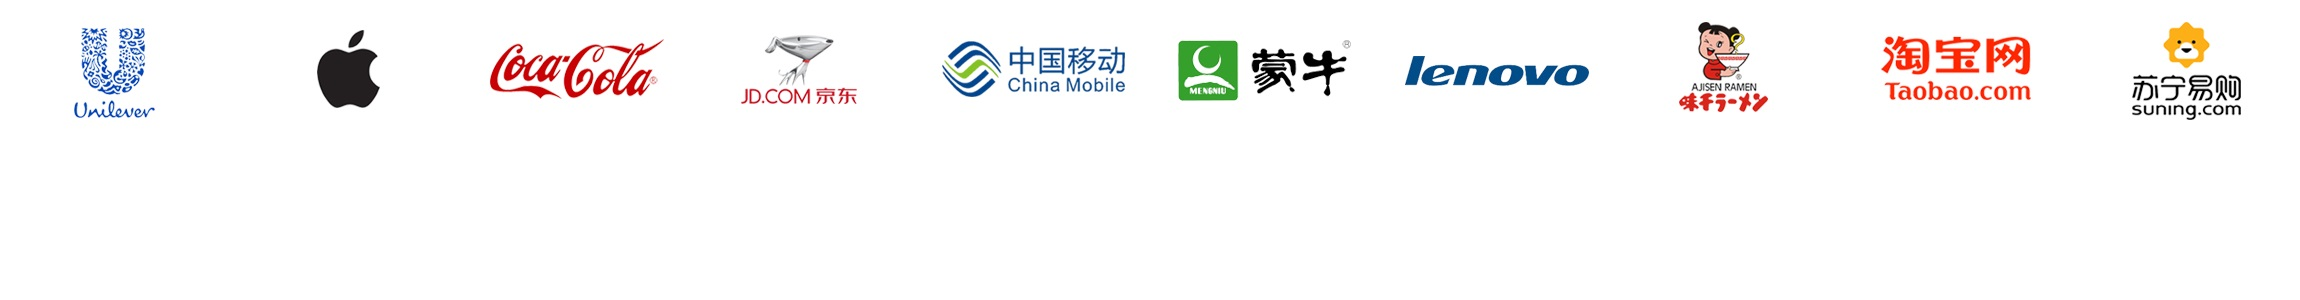
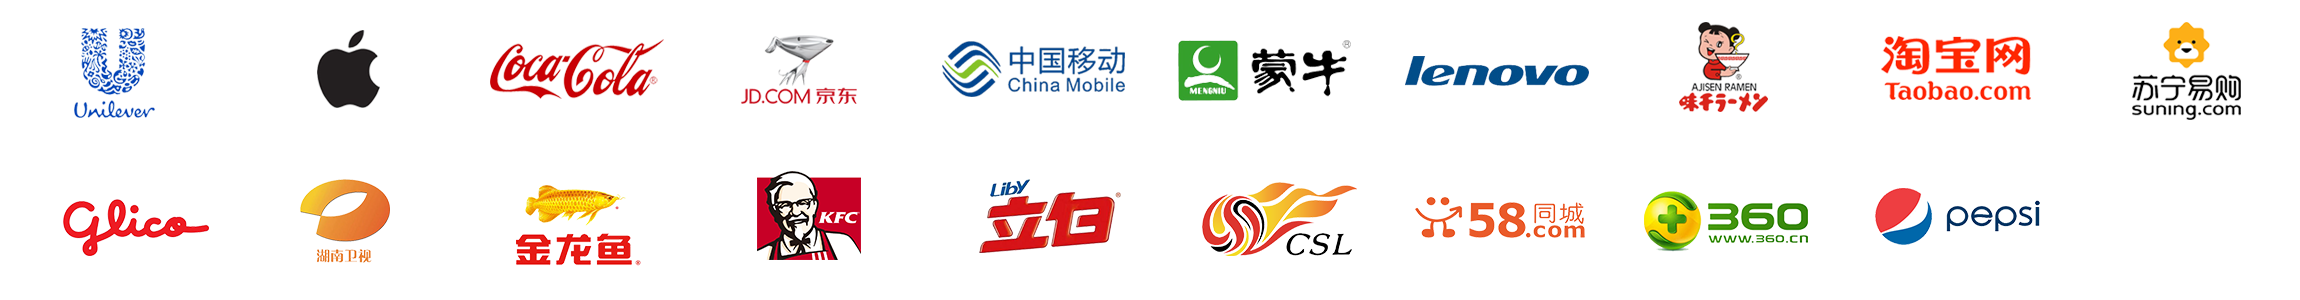
合作伙伴logo替换

diff --git a/webapp/src/main/webapp/index_css/shibaHome.css b/webapp/src/main/webapp/index_css/shibaHome.css
@@ -88,6 +88,36 @@
 .background-five .adv .taobao {
   background: url(../index_img/line.jpg) no-repeat -1855px 0;
 }
+.background-five .adv .glico {
+  background: url(../index_img/line.jpg) no-repeat -20px -150px;;
+}
+.background-five .adv .anquan {
+  background: url(../index_img/line.jpg) no-repeat -1625px -150px;
+}
+.background-five .adv .wubatc {
+  background: url(../index_img/line.jpg) no-repeat -1395px -150px;
+}
+.background-five .adv .cocacola {
+  background: url(../index_img/line.jpg) no-repeat -475px -150px;
+}
+.background-five .adv .zhongchao {
+  background: url(../index_img/line.jpg) no-repeat -1165px -150px;
+}
+.background-five .adv .pepsi {
+  background: url(../index_img/line.jpg) no-repeat -1843px -150px;
+}
+.background-five .adv .hunanTV {
+  background: url(../index_img/line.jpg) no-repeat -245px -150px; 
+}
+.background-five .adv .jinlongyu {
+  background: url(../index_img/line.jpg) no-repeat -475px -150px;
+}
+.background-five .adv .kfc {
+  background: url(../index_img/line.jpg) no-repeat -705px -150px;
+}
+.background-five .adv .liby {
+  background: url(../index_img/line.jpg) no-repeat -948px -150px;
+}
 .clearfix:after {
   visibility: hidden;
   display: block;
